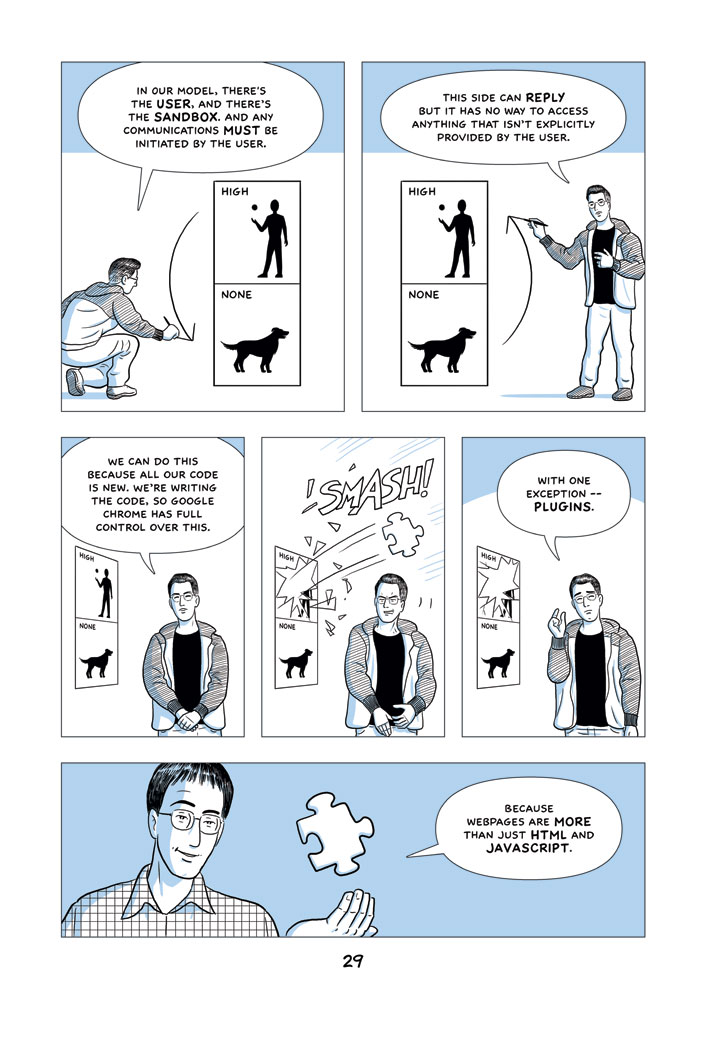
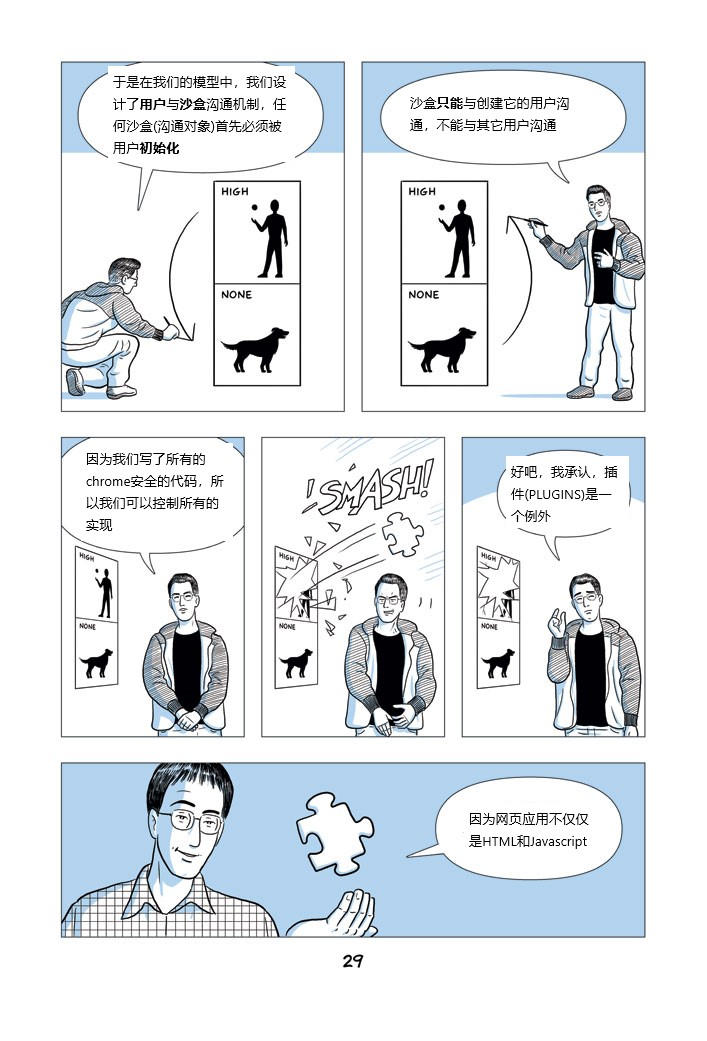
page 31

diff --git a/README.md b/README.md
@@ -505,14 +505,38 @@ vista使用修改过的BIBA安全模型，有三个级别
 
 ---
 
-于是在我们的模型中，我们设计了用户和沙盒沟通机制，任何沟通对象首先必须被用户初始化
+于是在我们的模型中，我们设计了用户与沙盒沟通机制，任何沙盒(沟通对象)首先必须被用户初始化
 
-沟通对象只能与创建它的用户沟通，不能与其它用户沟通
+沙盒只能与创建它的用户沟通，不能与其它用户沟通
 
-我们重新写了所有的chrome安全的代码，所以我们可以控制所有的东西
+因为我们写了所有的chrome安全的代码，所以我们可以控制所有的实现
 
 好吧，我承认，插件(PLUGINS)是一个例外
 
 因为网页应用不仅仅是HTML和Javascript
 
 ---
+
+在我们设计的这个权限系统中，google chrome的渲染程序可能运行在非常低的权限等级，而插件却可能运行在相同权限等级或者更高的权限等级
+
+插件有能力不遵守公共的标准，所以我们不能让沙盒运行的权限等级超过chrome的等级
+
+though with some small changes on the part of the pulgin maker, we can get them to run at a lower privilege which would be much much safer
+
+虽然在插件制造者方面做了一些小改动，我们可以让它们在较低的权限下运行，这将是更安全的
+
+and meanwhile, we have a huge surface area reduction in vulnerability, from all this to this
+
+就是这样，我们让产品防御的脆弱点，从整体缩小到仅仅--
+
+--插件上
+
+---
+
+当一个插件与HTML和Javascript组合在一起，它们运行在相同的进程时
+
+如果任何运行崩溃或者内存冲突导致进程异常，它们就都完了
+
+于是，我们将插件从渲染进程中拉了出来，作为一个单独的进程而存在
+
+通过这种设计方式，即使插件进程出现异常，页面部分仍然作为沙盒运行
